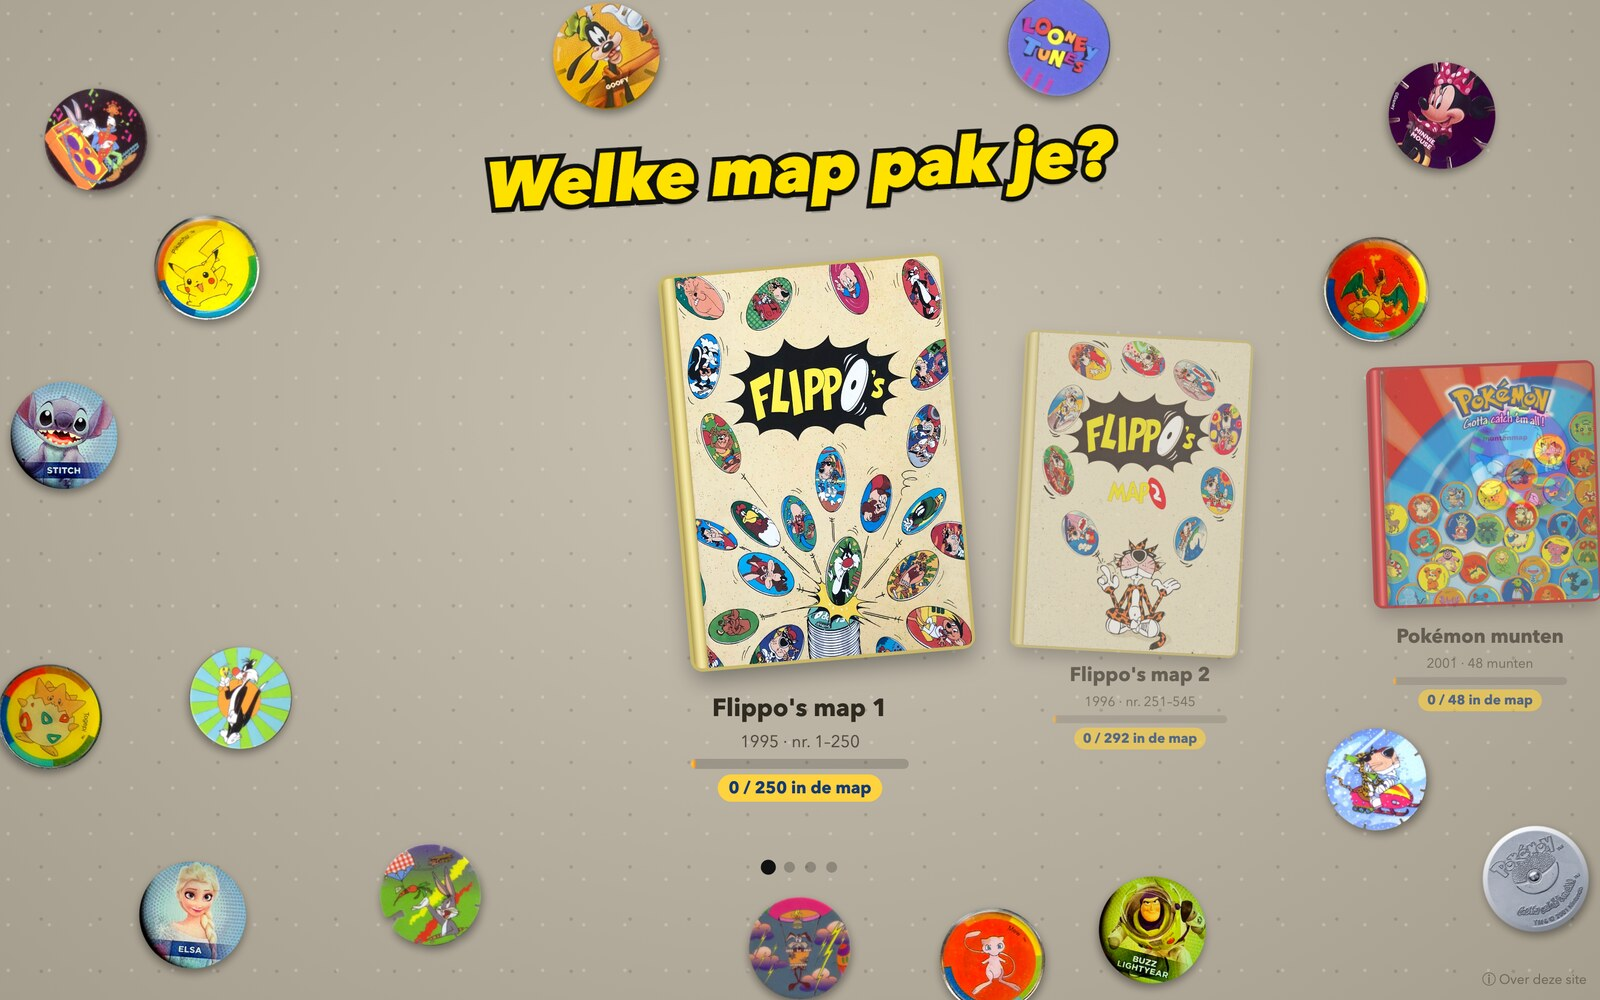
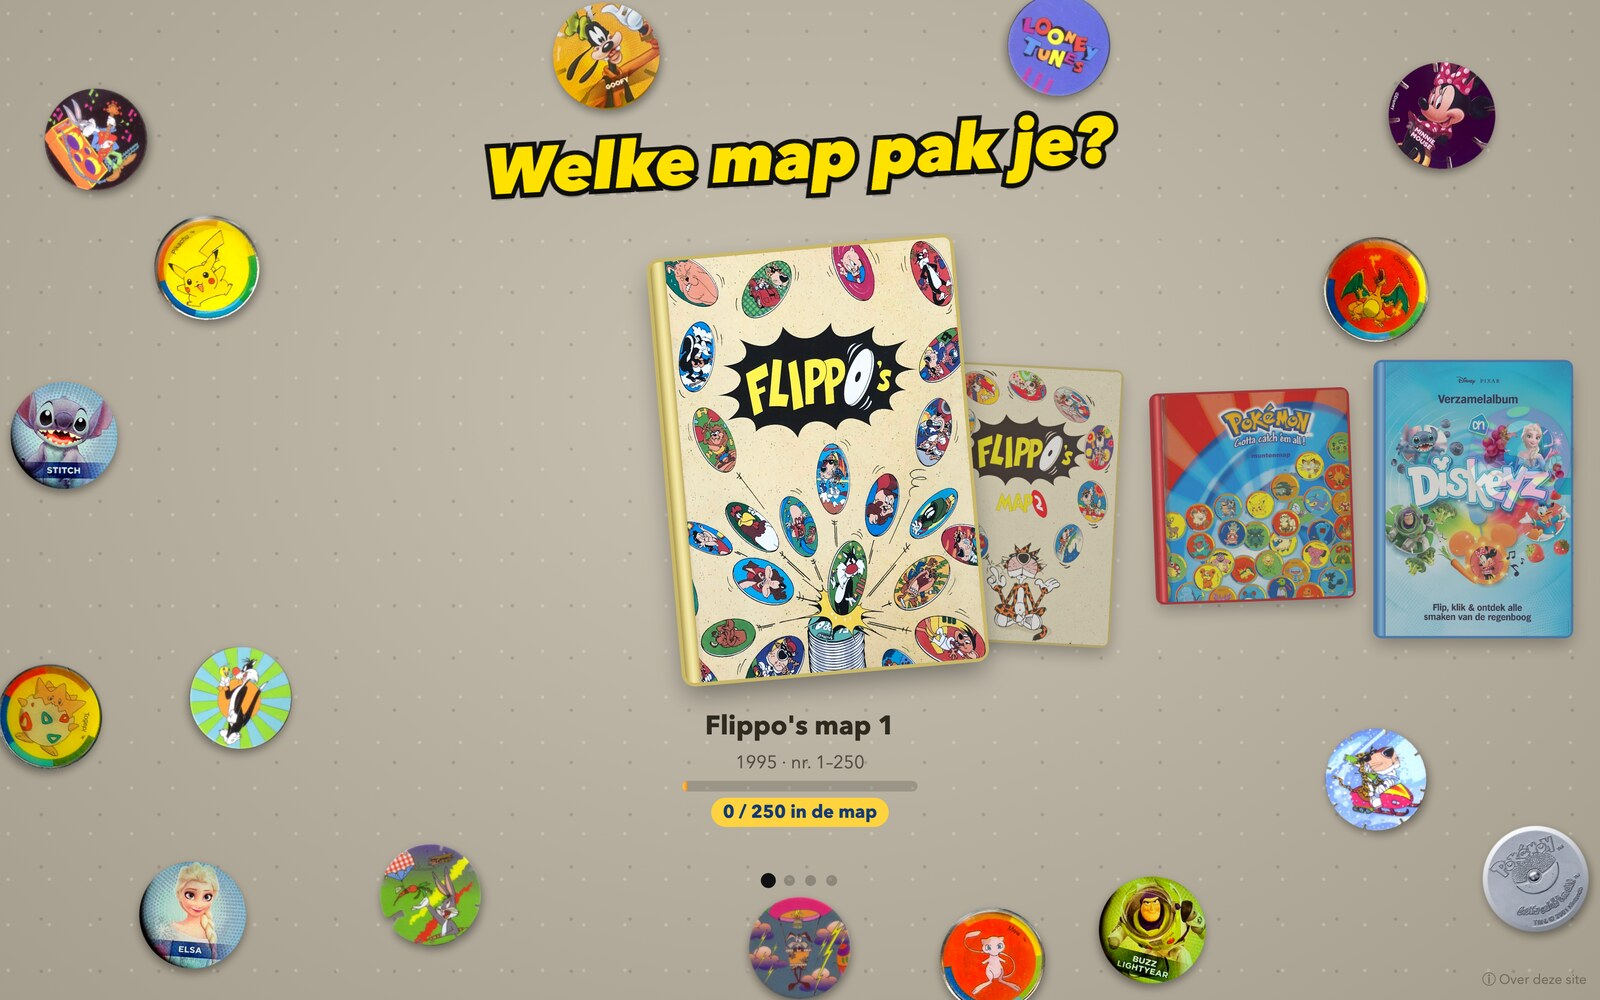
Carrousel met overlappende mappen en kleinere zakjes in de hoek

Changed region(s): [[0.2812, 0.093, 1.0, 0.899], [0.6562, 0.713, 0.75, 0.775], [0.875, 0.682, 0.9688, 0.713]]

diff --git a/style.css b/style.css
@@ -1458,3 +1458,19 @@ html, body { -webkit-touch-callout: none; }
   box-shadow: 0 2px 5px rgba(0, 0, 0, .25);
 }
 #btn-home:hover { transform: scale(1.1); }
+
+/* carrousel: mappen liggen half over elkaar, de gekozen map ligt bovenop en is groter */
+.ch-card { position: relative; z-index: 1; scale: .7; opacity: .75; }
+.ch-card.on, .ch-card.picked { z-index: 3; scale: 1.08; opacity: 1; }
+.ch-card b, .ch-card span, .ch-card u, .ch-card em { transition: opacity .25s; }
+.ch-card:not(.on):not(.picked) :is(b, span, u, em) { opacity: 0; }
+.ch-card:not(.on) .ch-book { filter: brightness(.86); }
+.ch-card .ch-book { transition: transform .25s, filter .3s; }
+@media (min-width: 641px) {
+  .ch-card + .ch-card { margin-left: calc(var(--cw) * -.34); }
+  .ch-list { padding-top: 46px; padding-bottom: 34px; }
+}
+@media (max-width: 640px) {
+  .ch-card + .ch-card, .ch-card:nth-child(3) + .ch-card { margin-left: -24vw; }
+  .ch-list { padding-top: 44px; padding-bottom: 30px; }
+}

diff --git a/index.html b/index.html
@@ -21,7 +21,7 @@
 <meta property="og:image:height" content="630">
 <meta property="og:image:alt" content="Drie verzamelmappen op tafel: Flippo's map 1, Flippo's map 2 en AH Diskeyz">
 <meta name="twitter:card" content="summary_large_image">
-<link rel="stylesheet" href="style.css?v=86">
+<link rel="stylesheet" href="style.css?v=88">
 </head>
 <body>
 <main id="table">
@@ -57,7 +57,7 @@
   <h1>Flippo's</h1>
   <p>Een speeltafel vol flippo's in je browser: verzamel de originele Smiths-flippo's (nummer 1 tot en met 545) en de 30 AH Diskeyz in drie mappen. Zet JavaScript aan om te spelen.</p>
 </noscript>
-<script src="flippos-data.js?v=86"></script>
-<script src="app.js?v=86"></script>
+<script src="flippos-data.js?v=88"></script>
+<script src="app.js?v=88"></script>
 </body>
 </html>

diff --git a/app.js b/app.js
@@ -1014,7 +1014,7 @@ $('#btn-sweep').onclick = () => {
 const packH = () => (L.mode === 'p' ? 760 : 500) * (FLIPPO ? 1.1 : 1);
 // de zak op tafel is even groot als wanneer hij in het midden staat, en steekt een stuk buiten beeld
 function sizePackButton() {
-  const btn = $('#btn-pack'), h = packH() * L.k;
+  const btn = $('#btn-pack'), h = packH() * L.k * (FLIPPO ? 1 : 0.72);   // de kleine zakjes liggen wat kleiner in de hoek; de zak chips op ware grootte
   btn.style.height = h + 'px';
   btn.style.left = -h * SET.packRatio * 0.2 + 'px';
   btn.style.bottom = -h * 0.3 + 'px';
